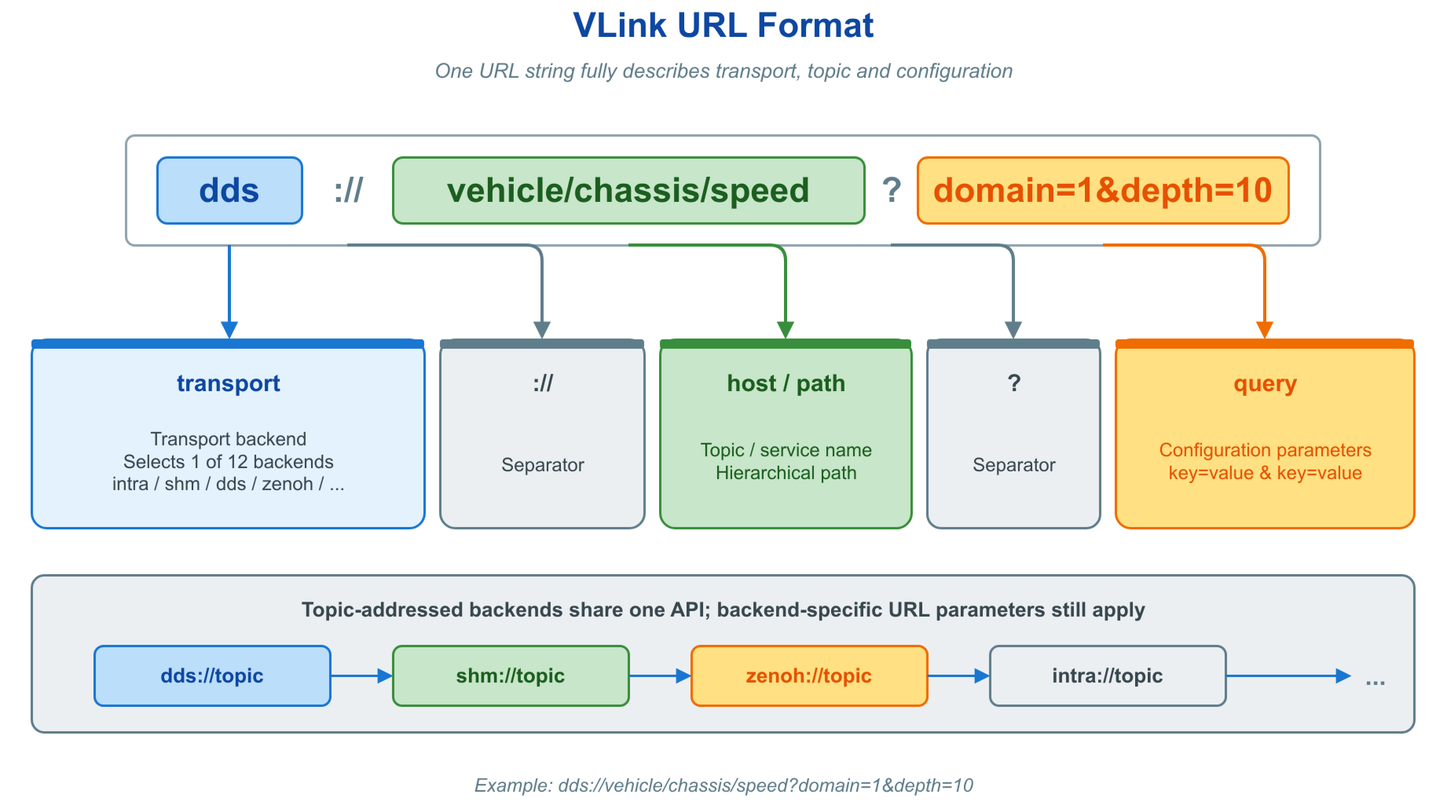
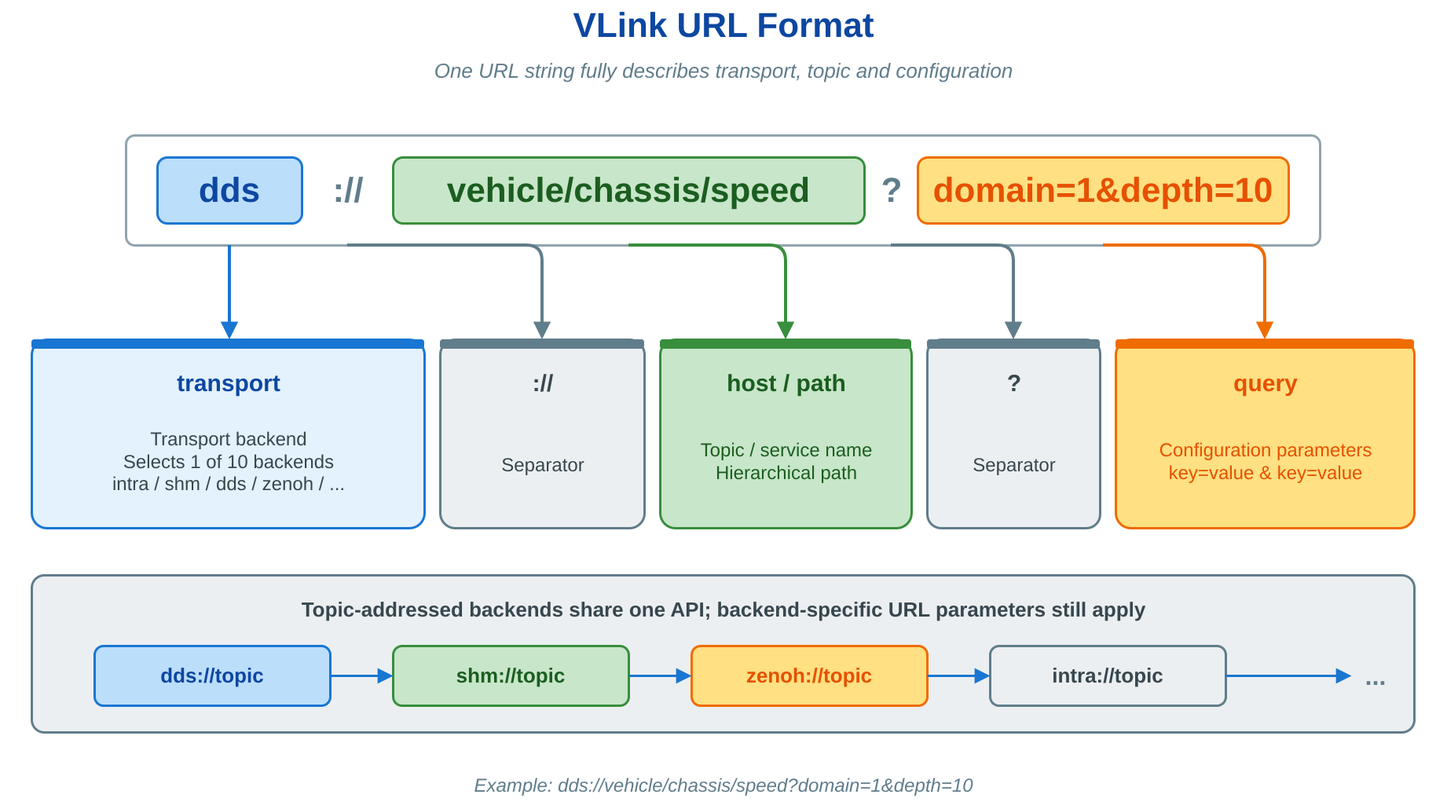
docs: synchronize public behavior and release notes

diff --git a/.github/wiki/index.html b/.github/wiki/index.html
@@ -101,7 +101,7 @@
   <div class="container hero-inner">
     <div>
       <span class="hero-kicker" data-i18n="hero.kicker"><span class="dot"></span> <span class="hk-cpp">C++</span> · <span class="hk-perf">多后端</span> · <span class="hk-light">轻量级</span> · <span class="hk-easy">跨平台</span> · <span class="hk-safe">Apache 2.0</span></span>
-      <h1 data-i18n="hero.h1">一套 <span class="grad">API</span>，<br><span class="num">12</span> 种传输后端，<br><span class="grad">按部署选择</span></h1>
+      <h1 data-i18n="hero.h1">一套 <span class="grad">API</span>，<br><span class="num">10</span> 种传输后端，<br><span class="grad">按部署选择</span></h1>
       <p class="hero-sub" data-i18n="hero.sub">VLink 用 Publisher / Subscriber、Client / Server、Setter / Getter 六类节点覆盖 Event、Method、Field 三种通信模型。业务处理代码可在后端间复用；地址、依赖、QoS 与运行时配置仍须满足所选后端的约束。</p>
       <div class="hero-cta">
         <a class="btn btn-primary" href="#quickstart">
@@ -110,7 +110,7 @@
         </a>
       </div>
       <div class="hero-meta">
-        <div><strong>12</strong> <span data-i18n="hero.meta.tr">传输后端</span></div>
+        <div><strong>10</strong> <span data-i18n="hero.meta.tr">传输后端</span></div>
         <div><strong>14</strong> <span data-i18n="hero.meta.ser">序列化格式</span></div>
         <div><strong>6</strong> <span data-i18n="hero.meta.nt">节点类型</span></div>
         <div><strong>10</strong> <span data-i18n="hero.meta.cli">CLI 工具</span></div>
@@ -194,7 +194,7 @@
     </div>
 
     <div class="numbers reveal">
-      <div class="num-item"><div class="big count-plus" data-count-target="12">12</div><div class="label" data-i18n="num.tr">传输后端</div></div>
+      <div class="num-item"><div class="big count-plus" data-count-target="10">10</div><div class="label" data-i18n="num.tr">传输后端</div></div>
       <div class="num-item"><div class="big" data-count-target="14">14</div><div class="label" data-i18n="num.ser">序列化格式</div></div>
       <div class="num-item"><div class="big" data-count-target="10">10</div><div class="label" data-i18n="num.cli">CLI 工具</div></div>
       <div class="num-item"><div class="big" data-count-target="4">4</div><div class="label" data-i18n="num.viz">GUI / Web 可视化</div></div>
@@ -836,7 +836,7 @@ getter.<span class="fn">set_change_reporting</span>(<span class="kw">true</span>
       <div class="vs-row"><div data-i18n="vs.r.arch.k">架构与扩展</div><div class="vs-col-ros2" data-i18n="vs.r.arch.a">rclcpp + rmw 分层，但扩展依赖 pluginlib 与 ament 包管理</div><div class="vs-col-vlink" data-i18n="vs.r.arch.b">传输 / 序列化 / CLI / 可视化均为独立 CMake 组件，按需裁剪；<br><strong>七类插件接口</strong> (Logger · Runable · Convert · Schema · Bag · Trigger · Conf) 运行期 dlopen 加载</div></div>
       <div class="vs-row"><div data-i18n="vs.r.perf.k">性能验证</div><div class="vs-col-ros2" data-i18n="vs.r.perf.a">结果受 RMW、QoS、消息大小、拓扑与硬件影响，应在目标配置上测量</div><div class="vs-col-vlink" data-i18n="vs.r.perf.b">同样需按目标配置测量；<code>intra://</code> 直接/共享指针路径与 <code>shm://</code> 显式 loan 路径可减少载荷复制</div></div>
       <div class="vs-row"><div data-i18n="vs.r.trans.k">传输与零拷贝</div><div class="vs-col-ros2" data-i18n="vs.r.trans.a">传输和 loan 能力由所选 RMW、消息类型及配置决定</div><div class="vs-col-vlink" data-i18n="vs.r.trans.b">提供 10 种 URL scheme；迁移时必须满足各后端的 URL 结构、依赖、QoS 与运行时配置</div></div>
-      <div class="vs-row"><div data-i18n="vs.r.ser.k">序列化</div><div class="vs-col-ros2" data-i18n="vs.r.ser.a">rosidl (ROS Msg IDL) 为主；Type Adaptation 允许回调用 Eigen 等自定义类型</div><div class="vs-col-vlink" data-i18n="vs.r.ser.b"><strong>14 类编译期派发</strong>：Bytes · DynamicData · CDR · Protobuf · Protobuf 指针 · FlatBuffers 对象 · FlatBuffers 表指针 · FlatBuffers builder · 自定义 · string · const char* · POD · POD 指针 · 流式兜底</div></div>
+      <div class="vs-row"><div data-i18n="vs.r.ser.k">序列化</div><div class="vs-col-ros2" data-i18n="vs.r.ser.a">rosidl (ROS Msg IDL) 为主；Type Adaptation 允许回调用 Eigen 等自定义类型</div><div class="vs-col-vlink" data-i18n="vs.r.ser.b"><strong>14 类编译期派发</strong>：Bytes · DynamicData · CDR · Protobuf · Protobuf 指针 · FlatBuffers 对象 · FlatBuffers 表指针 · FlatBuffers builder · 自定义 · string · const char*（仅发送） · POD · POD 指针 · 流式兜底</div></div>
       <div class="vs-row"><div data-i18n="vs.r.debug.k">调试与观测</div><div class="vs-col-ros2" data-i18n="vs.r.debug.a">rqt · rosbag2 · Foxglove Bridge / Rerun 为独立社区包</div><div class="vs-col-vlink" data-i18n="vs.r.debug.b">Viewer · Player · Analyzer 桌面 GUI + Foxglove / Rerun Web 桥 <strong>原生同构</strong>；<strong>.vdb (SQLite+LZAV) / .vcap (MCAP+Zstd)</strong> · 分片 · 倍速回放</div></div>
       <div class="vs-row"><div data-i18n="vs.r.sec.k">安全机制</div><div class="vs-col-ros2" data-i18n="vs.r.sec.a">可使用 SROS2 / DDS Security；部署模型与证书配置取决于所选中间件</div><div class="vs-col-vlink" data-i18n="vs.r.sec.b">提供消息级 AES-128-GCM 与自定义加密回调；并非所有传输和序列化路径都支持消息级加密</div></div>
       <div class="vs-row"><div data-i18n="vs.r.build.k">构建与工程</div><div class="vs-col-ros2" data-i18n="vs.r.build.a">colcon + ament + rosdep + DDS vendor 包；工具链与 Python 深度绑定</div><div class="vs-col-vlink" data-i18n="vs.r.build.b">标准 <strong>CMake / Conan</strong>，支持静态链接；配套 <a href="https://github.com/thun-res/vkit" target="_blank" rel="noopener"><strong>vkit</strong></a> 统一拉取 / 编译 / 打包</div></div>

diff --git a/.github/wiki/assets/js/i18n.js b/.github/wiki/assets/js/i18n.js
@@ -200,7 +200,7 @@ const DICT = {
     'vs.r.trans.b': '提供 10 种 URL scheme；迁移时必须满足各后端的 URL 结构、依赖、QoS 与运行时配置',
     'vs.r.ser.k': '序列化',
     'vs.r.ser.a': 'rosidl (ROS Msg IDL) 为主；Type Adaptation 允许回调用 Eigen 等自定义类型',
-    'vs.r.ser.b': '<strong>14 种编译期派发</strong>：Bytes · DynamicData · CDR · Protobuf · Protobuf 指针 · FlatBuffers 对象 · FlatBuffers 表指针 · FlatBuffers builder · 自定义 · string · const char* · POD · POD 指针 · 流式兜底',
+    'vs.r.ser.b': '<strong>14 种编译期派发</strong>：Bytes · DynamicData · CDR · Protobuf · Protobuf 指针 · FlatBuffers 对象 · FlatBuffers 表指针 · FlatBuffers builder · 自定义 · string · const char*（仅发送） · POD · POD 指针 · 流式兜底',
     'vs.r.debug.k': '调试与观测',
     'vs.r.debug.a': 'rqt · rosbag2 · Foxglove Bridge / Rerun 为独立社区包',
     'vs.r.debug.b': 'Viewer · Player · Analyzer 桌面 GUI + Foxglove / Rerun Web 桥 <strong>原生同构</strong>；<strong>.vdb (SQLite+LZAV) / .vcap (MCAP+Zstd)</strong> · 分片 · 倍速回放',
@@ -529,7 +529,7 @@ const DICT = {
     'vs.r.trans.b': 'Provides 10 URL schemes; migration must satisfy each backend&#39;s URL structure, dependencies, QoS and runtime configuration',
     'vs.r.ser.k': 'Serialization',
     'vs.r.ser.a': 'rosidl (ROS Msg IDL) is primary; Type Adaptation lets callbacks use Eigen and custom types',
-    'vs.r.ser.b': '<strong>14 compile-time dispatched formats</strong>: Bytes · DynamicData · CDR · Protobuf · Protobuf ptr · FlatBuffers object · FlatBuffers table ptr · FlatBuffers builder · custom · string · const char* · POD · POD ptr · stream fallback',
+    'vs.r.ser.b': '<strong>14 compile-time dispatched formats</strong>: Bytes · DynamicData · CDR · Protobuf · Protobuf ptr · FlatBuffers object · FlatBuffers table ptr · FlatBuffers builder · custom · string · const char* (send only) · POD · POD ptr · stream fallback',
     'vs.r.debug.k': 'Debug &amp; observe',
     'vs.r.debug.a': 'rqt · rosbag2 · Foxglove Bridge / Rerun ship as separate community packages',
     'vs.r.debug.b': 'Viewer · Player · Analyzer desktop GUI plus Foxglove / Rerun web bridges — <strong>in-tree</strong>; <strong>.vdb (SQLite+LZAV) / .vcap (MCAP+Zstd)</strong> · splitting · speed replay',
@@ -858,7 +858,7 @@ const DICT = {
     'vs.r.trans.b': '10 種の URL scheme を提供。移行時は各バックエンドの URL 構造、依存、QoS、実行時設定を満たす必要あり',
     'vs.r.ser.k': 'シリアライズ',
     'vs.r.ser.a': 'rosidl (ROS Msg IDL) が主流；Type Adaptation でコールバックに Eigen 等のカスタム型を渡せる',
-    'vs.r.ser.b': '<strong>14 種をコンパイル時ディスパッチ</strong>：Bytes · DynamicData · CDR · Protobuf · Protobuf ポインタ · FlatBuffers オブジェクト · FlatBuffers テーブルポインタ · FlatBuffers builder · カスタム · string · const char* · POD · POD ポインタ · ストリームフォールバック',
+    'vs.r.ser.b': '<strong>14 種をコンパイル時ディスパッチ</strong>：Bytes · DynamicData · CDR · Protobuf · Protobuf ポインタ · FlatBuffers オブジェクト · FlatBuffers テーブルポインタ · FlatBuffers builder · カスタム · string · const char*（送信のみ） · POD · POD ポインタ · ストリームフォールバック',
     'vs.r.debug.k': 'デバッグと可観測性',
     'vs.r.debug.a': 'rqt · rosbag2 · Foxglove Bridge / Rerun は独立したコミュニティパッケージ',
     'vs.r.debug.b': 'Viewer · Player · Analyzer デスクトップ GUI + Foxglove / Rerun Web ブリッジを <strong>同梱</strong>；<strong>.vdb (SQLite+LZAV) / .vcap (MCAP+Zstd)</strong> · 分割 · 倍速再生',

diff --git a/.github/wiki/assets/css/style.css b/.github/wiki/assets/css/style.css
@@ -621,7 +621,7 @@ a:hover { color: var(--brand-300); }
   background: linear-gradient(180deg, var(--brand-300), var(--brand-500));
   -webkit-background-clip: text; background-clip: text; -webkit-text-fill-color: transparent;
 }
-/* "+" suffix for animated counters marked as .count-plus (e.g. 12+ transports). */
+/* "+" suffix for animated counters marked as .count-plus (e.g. 10+ transports). */
 .num-item .big.count-plus::after {
   content: "+"; font-size: 0.6em; vertical-align: 0.45em;
   margin-left: 2px;
@@ -642,7 +642,7 @@ a:hover { color: var(--brand-300); }
           a glowing gradient border, and large bold titles. These read as
           hero cards — the "why you want this".
    ——————— dashed divider with sub-heading ———————
-   Row 2: 12 plain-bordered transport cards — the catalogue of backends.
+   Row 2: 10 plain-bordered transport cards — the catalogue of backends.
    The stylistic gap between the two rows is intentional. */
 .unified-benefits {
   list-style: none; padding: 0; margin: 0 0 40px;

diff --git a/doc/03-serialization.md b/doc/03-serialization.md
@@ -38,16 +38,16 @@
 | FlatBuffers 表指针（`const MyMsg*`） | FlatBuffers（零拷贝只读） | 指针指向接收缓冲区，仅在回调内有效 | 高性能只读路径 |
 | FlatBuffers builder（含 `fbb_` + `Finish()`） | FlatBuffers | 直接发布手工构建的 builder，序列化时完成构建并按最终大小申请目标缓冲 | 自管缓冲区的高性能写入路径 |
 | Protobuf 消息（`MyMsg`） | Protobuf 二进制 | 需由 `.proto` 生成代码 | 跨语言、字段随版本演进 |
-| Protobuf 指针（`MyMsg*`） | Protobuf 二进制 | 配合 Arena 分配，降低高频发布的内存管理开销 | 高频发布大量消息 |
+| Protobuf 指针（`MyMsg*`） | Protobuf 二进制 | 调用方管理发送指针；框架创建接收或响应对象前须先 `bind_proto_arena()`，每次投递在 Arena 中分配独立对象 | 高频收发大量消息 |
 | `vlink::Bytes` | 原始字节直传 | 框架不解释其结构 | 透明代理、私有二进制协议、原始帧 |
-| `std::string` / `const char*` | 文本直传 | UTF-8 文本；接收的字符指针仅到同线程下一次字符解码前有效 | 日志、命令字符串 |
+| `std::string` / `const char*` | 文本直传 | `std::string` 支持收发；`const char*` / `char[]` 仅支持发送 | 日志、命令字符串 |
 | 自定义类型（重载 `operator>>`/`<<`） | 用户编解码 | 字段顺序须严格对应，见 [3.5](#-35-自定义序列化器) | 自有紧凑布局、带外信息 |
 | DDS IDL 类型（`MyMsg`） | CDR | 需注册 TypeSupport，见 [3.6](#-36-dds-cdr-与-dynamicdata) | 与外部 DDS 系统互操作 |
 | `vlink::DynamicData` | 类型名标签 + 已序列化负载 | 运行期按类型名标签选择编解码，无需编译期固定消息类型，见 [3.6](#-36-dds-cdr-与-dynamicdata) | 监控、协议桥接 |
 
 判据的取舍要点：POD 提供最低开销，但不携带版本信息且不跨字节序；FlatBuffers 与 Protobuf 以编码开销换取结构演进能力；`Bytes` 不解释内容，适合协议透传。后端选择与 URL 写法见 [传输后端](04-transport.md)；面向感知的零拷贝容器见 [零拷贝](06-zerocopy.md)。
 
-字符指针由调用方保证可访问到 NUL；字符数组必须在数组边界内包含 NUL。两者都只序列化首个 NUL 之前的字节。
+发送字符指针时，调用方必须保证其可访问到 NUL；字符数组必须在数组边界内包含 NUL。两者都只序列化首个 NUL 之前的字节。接收端不能使用 `char*` 或 `const char*`，因为指针本身不拥有反序列化存储；接收文本必须使用 `std::string`。
 
 传输后端集成可调用公开的 `Serializer::serialize_to_transport<TypeT>()`：`use_loan=true` 且存在非零 size hint 时，回调至多按序列化大小请求一次目标 `Bytes`，返回值既可以是真实 loan，也可以是 owning storage；返回值必须与 hint 大小完全相同，codec 不得替换 transport loan。size hint 为 0 时不请求 loan，直接回退到 owning 序列化。普通应用仍应使用 Publisher、Client、Server 或 Setter，由框架自动选择该路径。builder 类型在进入该路径后会完成构建，即使目标分配失败也应使用新 builder 重试。
 
@@ -84,6 +84,8 @@ auto* state = google::protobuf::Arena::Create<example::VehicleState>(&arena);
 state->set_speed(80.0f);
 pub.publish(state);
 ```
+
+框架需要创建裸 Protobuf 指针对象时必须先调用 `bind_proto_arena()`：这包括 `Subscriber` 的 `MsgT`、`Server` 的 `ReqT` / `RespT`、`Client` 的 `RespT` 和 `Getter` 的 `ValueT`。`Subscriber` / `Server` 应在 `listen()` 前绑定，`Client` 应在首次调用前绑定；`Getter` 建议以 `InitType::kWithoutInit` 构造，绑定后再 `init()`。框架会为每次投递创建独立消息，避免嵌套或并发回调覆盖同一对象；消息占用的存储会保留到调用方 reset 或销毁 Arena。完整节点说明见 [通信模型](02-communication.md#-225-属性配置与查询)。
 
 ---
 
@@ -299,6 +301,7 @@ vlink::Publisher<BadMsg> pub("shm://bad");  // 编译失败：<MsgT> is not a su
 | --- | --- |
 | POD 跨架构字节序 | 内存直拷不做字节序转换；大小端不同的机器间通信应改用 Protobuf / FlatBuffers / CDR，或在自定义序列化器内显式处理字节序 |
 | FlatBuffers 零拷贝指针生命期 | `const MyMsg*` 指向接收缓冲区，回调返回后即失效；需在回调外保留时先 `s->UnPack()` 拷成 Object |
+| C 字符串方向性 | `const char*` / `char[]` 只支持序列化；反序列化为字符指针会失败，接收端应声明为 `std::string` |
 | 自定义序列化器字段对齐 | 写入与读取的字段顺序必须严格对应，`operator<<` 读取前须校验 `in.size()` 合法性 |
 | 流式回退编码 | 若类型对 `std::stringstream` 同时重载了 `<<`/`>>`（且非上述任一类型族），框架会以文本流作为兜底编码，而非编译失败；需要紧凑二进制时应改用 [3.5](#-35-自定义序列化器) 的 `operator>>`/`<<(Bytes&)` |
 

diff --git a/doc/13-integration.md b/doc/13-integration.md
@@ -313,7 +313,7 @@ vlink_create_publisher_with_ssl_options("mqtt://sensor/data", &schema, &pub, &op
 
 vlink 为 Python 提供两条路径，**首选原生绑定**：
 
-- **原生 nanobind 绑定（首选）**：源码位于 `python_api/`（`vlink_python.cc` + `vlink.py`），编译产出名为 `_vlink_nanobind` 的扩展模块，由 `vlink.py` 再导出（`from _vlink_nanobind import *`）。它是一等公民的面向对象 API，无需手写 ABI 声明，并自动管理生命周期。需在配置时开启构建开关 `ENABLE_PYTHON_API`（`CMakeLists.txt` 中默认 `OFF`），即 `cmake -DENABLE_PYTHON_API=ON ...`；该开关依赖系统已安装 `nanobind`。导出的完整类/接口清单（以 `python_api/vlink.py` 的 `__all__` 为准）包括：
+- **原生 nanobind 绑定（首选）**：源码位于 `python_api/`（`vlink_python.cc` + `vlink.py`），编译产出名为 `_vlink_nanobind` 的扩展模块，由 `vlink.py` 再导出（`from _vlink_nanobind import *`）。它是一等公民的面向对象 API，无需手写 ABI 声明，并自动管理生命周期。需在配置时开启构建开关 `ENABLE_PYTHON_API`（`CMakeLists.txt` 中默认 `OFF`），即 `cmake -DENABLE_PYTHON_API=ON ...`；该开关依赖系统已安装 `nanobind`。导出的主要类/接口如下，完整清单以 `python_api/vlink.py` 的 `__all__` 为准：
   - 收发端点：`Publisher`、`Subscriber`、`Server`、`Client`、`Setter`、`Getter`、`FireForgetServer`、`FireForgetClient`；
   - 安全版端点：`Security`、`SecurityConfig`、`SecurityConfigAdvanced`、`SecurityPublisher`、`SecuritySubscriber`、`SecurityServer`、`SecurityClient`、`SecuritySetter`、`SecurityGetter`、`SecurityFireForgetServer`、`SecurityFireForgetClient`、`SslOptions`；
   - 录制/回放与发现：`BagWriter`、`BagReader`、`TriggerRecorder`、`DiscoveryViewer`；
@@ -906,7 +906,7 @@ domain/QoS/depth 等后端参数可由三处声明，遵循就近覆盖原则。
 | `VLINK_URL_PLUGINS` | `auto` 按需加载未链接的已知共享后端，`none` / 空值关闭插件加载，其他非空值为显式预加载列表（模式值大小写不敏感） |
 | `VLINK_DDS_BIND` | 将所有 `dds://` 整体绑定到指定 DDS 实现（`ddsc`/`ddsr`） |
 | `VLINK_INTRA_BIND` | 将所有 `intra://` 重定向到其他 scheme（`shm`/`dds` 等） |
-| `VLINK_LOG_LEVEL` | 全局日志级别（`0`=TRACE … `6`=OFF） |
+| `VLINK_LOG_LEVEL` | 全局日志级别（`0`=TRACE … `6`=OFF，也接受对应英文名称） |
 | `VLINK_DDS_IP` | 指定 DDS 单播 IP，多网卡主机通常必设 |
 
 ```bash
@@ -951,13 +951,13 @@ export VLINK_FBS_DIR=/opt/vlink/fbs
 
 ### 📋 13.21 日志控制
 
-内置日志系统 `vlink::Logger` 的级别、目录与轮转策略均可经环境变量调整。日志级别取值：`0`=TRACE、`1`=DEBUG、`2`=INFO、`3`=WARN、`4`=ERROR、`5`=FATAL、`6`=OFF。控制台与文件级别可分别覆盖全局级别。
+内置日志系统 `vlink::Logger` 的级别、目录与轮转策略均可经环境变量调整。日志级别取值：`0`=TRACE、`1`=DEBUG、`2`=INFO、`3`=WARN、`4`=ERROR、`5`=FATAL、`6`=OFF；也可填写 `Trace`、`Debug`、`Info`、`Warn`、`Error`、`Fatal`、`Off`，并支持全大写或全小写。控制台与文件级别可分别覆盖全局级别。
 
 | 变量 | 类型 | 说明 |
 | --- | --- | --- |
-| `VLINK_LOG_LEVEL` | 数字 | 全局日志级别（`0`..`6`） |
-| `VLINK_LOG_CONSOLE_LEVEL` | 数字 | 控制台级别，覆盖全局 |
-| `VLINK_LOG_FILE_LEVEL` | 数字 | 文件级别，覆盖全局 |
+| `VLINK_LOG_LEVEL` | 数字或英文名称 | 全局日志级别（`0`..`6` 或对应英文名称） |
+| `VLINK_LOG_CONSOLE_LEVEL` | 数字或英文名称 | 控制台级别，覆盖全局 |
+| `VLINK_LOG_FILE_LEVEL` | 数字或英文名称 | 文件级别，覆盖全局 |
 | `VLINK_LOG_DIR` | 目录路径 | 日志文件目录 |
 | `VLINK_LOG_CONSOLE_UNORDER` | `1`/`0` | 非同步控制台输出，吞吐更高 |
 | `VLINK_LOG_CONSOLE_FMT` | `1`/`0` | 启用扩展控制台格式 |

diff --git a/CHANGELOG.md b/CHANGELOG.md
@@ -1,12 +1,13 @@
 # 🗒 更新日志
 
-## v2.1.0 (2026/07/18)
+## v2.1.0 (2026/07/24)
 
 ### 新增功能
 
 - **日志限频**：C++ 新增线程安全的调用点级 `VLOG_{T,D,I,W,E}_EVERY_MS(interval_ms, ...)` 宏，支持按周期抑制重复日志且不求值被抑制的日志参数。
 - **CLI/dump 改名**：`cli/dump` 已彻底改为 `cli/parse`，命令由 `vlink-dump` / `dump` 改为 `vlink-parse` / `parse`，构建开关由 `ENABLE_CLI_DUMP` 改为 `ENABLE_CLI_PARSE`；不提供旧名称兼容入口。
 - **零拷贝解析**：新增统一的 C++ / Python `MessageParser`，支持反射解析、零拷贝视图和通用文本渲染；Parse、Viewer、Analyzer、eproto 与 efbs 已接入。
+- **PointCloud**：C++ / Python 新增 `get_key_list()` 字段描述接口。
 - **CameraFrame**：扩展 Raw、Bayer、YUV 和压缩图像格式，新增编码辅助函数、Python 绑定与自动解码模式，线上枚举值保持兼容。
 - **Trigger**：新增 `vlink-trigger`、`TriggerRecorder` 及 Python 绑定，支持触发前后数据缓存、Bag 落盘、历史轮转和完成回调插件。
 - **Bag 插件**：新增读会话 `on_reset()`，回放前补全序列化和 Schema 类型。`on_read()` / `on_write()` 改为纯虚函数，并移除版本查询接口；插件仍声明 2.0，但需按新头文件适配并重新构建。
@@ -21,7 +22,8 @@
 - **Bag**：公开幂等的 `BagWriter::close()`，并由 `Config::sync_mode` 统一帧、Schema 和插件输出的写入模式。逐调用 `immediate` 参数及受保护 `record()` 签名已调整，外部派生类和既有二进制需适配并重新构建。
 - **Bag 性能**：优化异步写入、回放过滤、Schema 持久化和未启用录制时的热路径。
 - **基础库**：优化 MemoryPool 和任务调度；`MemoryPool::Config` 新增 `batch_size`，使用该配置的外部 C++ 二进制需重新构建。
-- **序列化**：新增 `Serializer::serialize_to_transport()`，修复 transport loan 生命周期，并加强字符串、Schema 和 payload 的边界校验。
+- **序列化**：新增 `Serializer::serialize_to_transport()`，修复 transport loan 生命周期并加强边界校验；C 字符串改为仅支持发送，接收端须使用 `std::string`。
+- **接收回调**：每次投递使用独立值对象，裸 Protobuf 指针也在 Arena 中逐条分配，避免嵌套回调覆盖。
 - **Zenoh**：原生 Key Expression 增加 domain / event 隔离；采用该寻址的新旧版本不能互通，升级时需同步通信两端。未设置环境变量时沿用配置文件默认值；zenoh-pico 构建要求启用 local subscriber、local queryable、liveliness 和 matching。
 - **Viewer / Webviz**：改进多相机解码、感知帧合并、动态 Schema 解析及多种图像格式在 Foxglove / Rerun 中的展示。
 - **Parse**：收紧参数校验，优化 slice / scan 的解析时机、频率限制和同步写入路径，并保证质量与 manifest 输出稳定。
@@ -38,7 +40,8 @@
 - **Parse**：修复插件解绑死锁、live 资源生命周期、slice / scan 边界遗漏、输入输出碰撞、Schema 插件路径加载和 proxy 包大小处理。
 - **图像与 Schema**：加强异常图像尺寸处理；在 efbs、Parse、Viewer 和 Webviz 解码前验证 FlatBuffers Schema 与 payload。
 - **Viewer / Webviz**：修复动态 Schema 生命周期、缺失字段默认值、慢客户端队列增长、Rerun 多格式路由及录制关闭错误上报。
-- **Python**：修复状态字典的错误派生类型读取，以及零拷贝解析器借用临时缓冲导致的 use-after-free。
+- **Intra**：修复回调内注销、嵌套投递、同 pipeline RPC 死锁和跨 event 误连接。
+- **Python**：修复状态字典类型读取、零拷贝解析器 use-after-free 和 `vlink` 模块路径；`Bytes` 支持负索引。
 - **基础库**：修复 `MemoryResource::is_equal()` 与外部 PMR resource 比较时的未定义行为。
 
 ## v2.0.0 (2025/07/01)

diff --git a/doc/14-reference.md b/doc/14-reference.md
@@ -183,7 +183,7 @@ vlink::Publisher<Imu> pub2("dds://sensor/imu?qos=my_sensor");
 
 ![序列化类型自动推导](images/serialization-type-detection.png)
 
-开箱即用的类型族：POD 结构体（二进制直存，无编码转换但会内存复制）、Protobuf、FlatBuffers、DDS CDR（实现 `serialize/deserialize(Cdr&)`，DDS 快路径）、`std::string` / `const char*`、`vlink::Bytes`，以及实现一对编解码运算符的自定义类型。机制与自定义序列化见 [消息序列化](03-serialization.md)。
+开箱即用的类型族：POD 结构体（二进制直存，无编码转换但会内存复制）、Protobuf、FlatBuffers、DDS CDR（实现 `serialize/deserialize(Cdr&)`，DDS 快路径）、`std::string`、仅用于发送的 `const char*` / `char[]`、`vlink::Bytes`，以及实现一对编解码运算符的自定义类型。接收文本必须使用 `std::string`；机制与自定义序列化见 [消息序列化](03-serialization.md)。
 
 ---
 
@@ -200,7 +200,7 @@ vlink::Publisher<Imu> pub2("dds://sensor/imu?qos=my_sensor");
 
 高频路径可用 `VLOG_{T,D,I,W,E}_EVERY_MS(interval_ms, ...)` 做线程安全的调用点级周期限频；Fatal 和其他日志宏族不提供该变体。
 
-运行期由环境变量 `VLINK_LOG_LEVEL=0..6` 设定总级别，`VLINK_LOG_CONSOLE_LEVEL` / `VLINK_LOG_FILE_LEVEL` 分别控制控制台与文件两个 sink。编译期将宏 `VLINK_LOG_LEVEL` 设为某级别后，更低级别的日志在 Release 下被整条消除。完整日志能力见 [基础库](08-base-library.md)。
+运行期由环境变量 `VLINK_LOG_LEVEL` 设定总级别，可填写 `0`..`6` 或对应英文名称（首字母大写、全大写、全小写）；`VLINK_LOG_CONSOLE_LEVEL` / `VLINK_LOG_FILE_LEVEL` 分别控制控制台与文件两个 sink，并接受相同取值。编译期将宏 `VLINK_LOG_LEVEL` 设为某级别后，更低级别的日志在 Release 下被整条消除。完整日志能力见 [基础库](08-base-library.md)。
 
 ---
 
@@ -280,7 +280,7 @@ if (pub.is_support_loan()) {
 
 | 变量 | 作用 |
 | --- | --- |
-| `VLINK_LOG_LEVEL` | 日志总级别（`0=Trace` .. `5=Fatal`，`6=Off`） |
+| `VLINK_LOG_LEVEL` | 日志总级别（`0=Trace` .. `5=Fatal`，`6=Off`；也接受对应英文名称） |
 | `VLINK_LOG_DIR` | 日志输出目录 |
 | `VLINK_DDS_IP` | DDS 发现对外通告的本机单播 IP 列表（多值以逗号或空格分隔） |
 | `VLINK_DDS_PEER` | DDS 静态单播对端列表，绕开多播发现（多值以逗号或空格分隔，见 [§14.18](#-1418-跨机或容器不连通)） |

diff --git a/doc/00-whitepaper.md b/doc/00-whitepaper.md
@@ -469,7 +469,7 @@ VLink 通过 URL 前缀选择传输后端，同一套业务代码可以在不同
 | `kFlatBuilderType`   | 含 `fbb_` 成员 + `Finish()` 的结构体           | FlatBuffers Builder 模式（结构体走常规 `publish()`；裸 `flatbuffers::FlatBufferBuilder*` 需用 `Publisher::publish_fbb()` 重载） |
 | `kCustomType`        | 实现 `operator>>(Bytes&) const` / `operator<<(const Bytes&)` 的类型 | 自定义序列化协议   |
 | `kStringType`        | `std::string`                                   | 字符串消息                          |
-| `kCharsType`         | `char[]` / `const char*`                        | C 字符串                            |
+| `kCharsType`         | `char[]` / `const char*`                        | 仅序列化；反序列化使用 `std::string` |
 | `kStreamType`        | 支持 `std::stringstream` 输入/输出运算符的类型  | 兜底序列化路径（无更优编解码时回退）|
 | `kStandardType`      | POD 类型（`int`、`float`、结构体等）            | 简单数据类型，直接内存拷贝          |
 | `kStandardPtrType`   | `T*`（指向 POD 类型的原始指针）                 | 发送侧指针浅视图；transport 仍可能复制，接收侧借用 wire 缓冲 |
@@ -887,7 +887,7 @@ Zenoh 是新兴的云边一体通信协议，VLink 在 zenoh:// 后端下兼容 
 
 | 评估维度           | VLink                  | ROS2                     | Fast-DDS          | SOME/IP             | Zenoh                |
 | ------------------ | ---------------------- | ------------------------ | ----------------- | ------------------- | -------------------- |
-| 多传输后端支持     | 支持（12 种 scheme）   | 部分（以 DDS 为主）      | 不支持（仅 DDS）  | 不支持（仅 SOME/IP）| 部分                 |
+| 多传输后端支持     | 支持（10 种 scheme）   | 部分（以 DDS 为主）      | 不支持（仅 DDS）  | 不支持（仅 SOME/IP）| 部分                 |
 | 极简 API           | 支持                   | 部分（需继承 Node）      | 不支持（API 复杂）| 不支持（协议复杂）  | 支持                 |
 | 零拷贝支持         | 条件支持（SHM loan / Intra 共享指针直达路径） | 部分（intra-process） | 部分 | 不支持 | 部分（实验性） |
 | 多序列化格式支持   | 支持（14 种）          | 部分（CDR 为主）         | 部分（CDR）       | 不支持              | 不支持（raw bytes）  |

diff --git a/doc/06-zerocopy.md b/doc/06-zerocopy.md
@@ -171,6 +171,7 @@ sub.listen([](const vlink::zerocopy::CameraFrame& frame) {
 | `create_v3f<ExtraT...>(count, names)` | 创建 XYZ + 附加字段的点云，预留 `count` 个点 |
 | `push_value_v3f(x, y, z, extras...)` | 追加一个点 |
 | `get_value_v3f(index)` | 读第 `index` 个点的 XYZ，返回 `Vector3f` |
+| `get_key_list()` | 按打包顺序返回字段名、逻辑类型和存储字节数；量化点云的前三个坐标仍报告为浮点逻辑类型 |
 | `get_key_map()` + `get_value<T>(index, key_map, "field")` | 按字段名读任意字段 |
 
 `size()` 返回当前点数，`pack_size()` 返回单点字节数。需要双精度坐标时改用 `create_v3d` / `push_value_v3d` / `get_value_v3d`。

diff --git a/doc/01-started.md b/doc/01-started.md
@@ -564,6 +564,7 @@ cmake --build build_cross -j$(nproc)
 ├── lib/
 │   ├── libvlink.so                 # 核心库
 │   ├── libvlink-dds.so / -shm.so / -intra.so / ...   # 各传输模块（按构建配置）
+│   ├── python/                     # Python 绑定（启用 ENABLE_PYTHON_API 时）
 │   └── cmake/vlink/                # find_package 入口（vlink-config.cmake 等）
 ├── bin/                    # CLI 工具（vlink-info / vlink-bag / vlink-monitor ...）
 └── etc/vlink/
